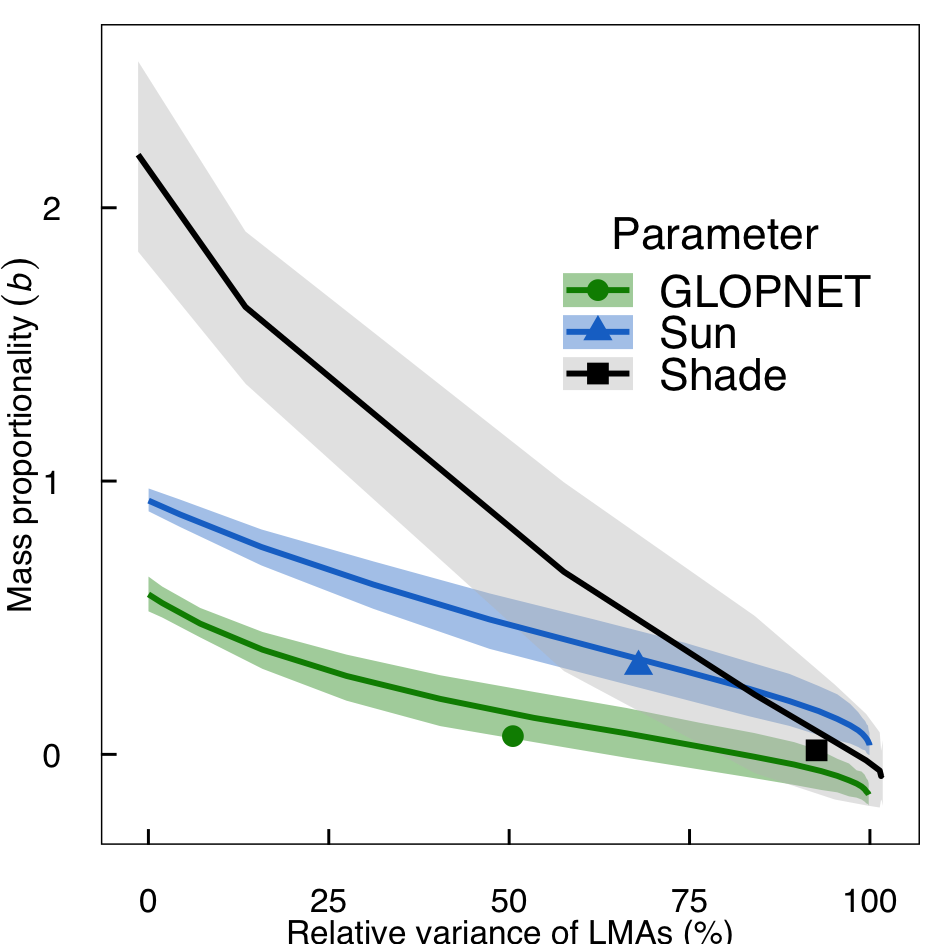
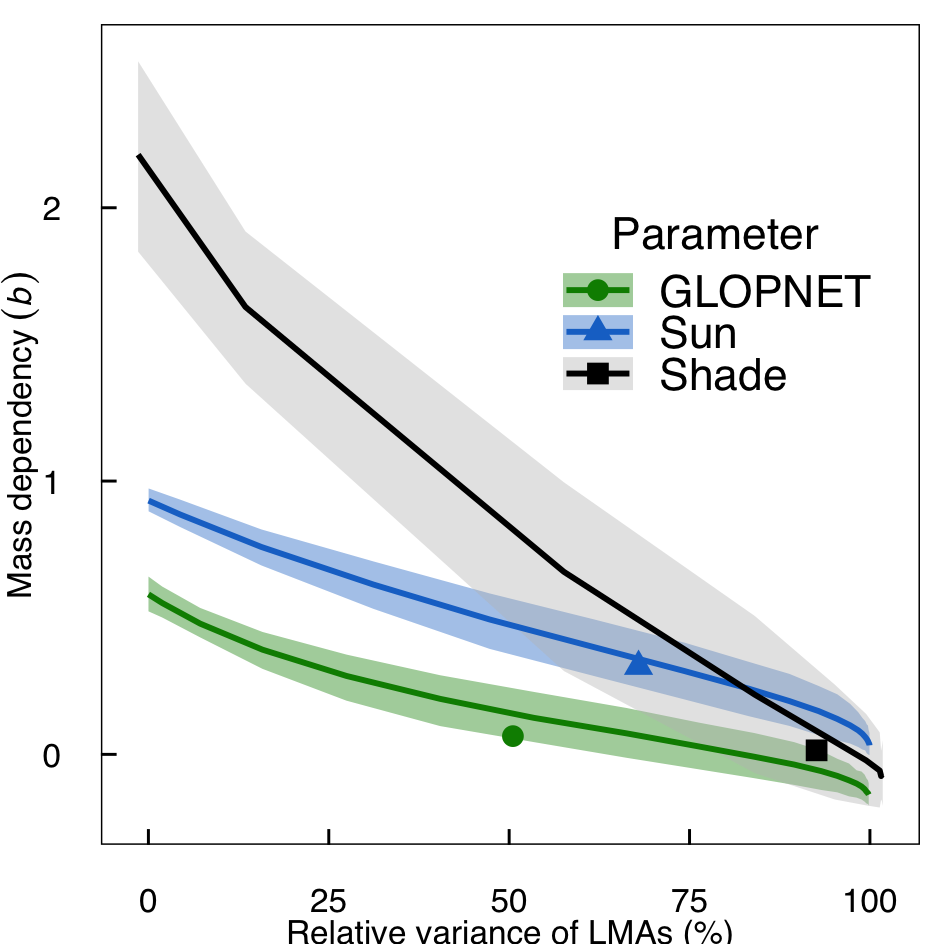
udpated fig legends

Changed region(s): [[0.0, 0.2765, 0.0614, 0.6451]]

diff --git a/ms/LMAms_main.tex b/ms/LMAms_main.tex
@@ -754,7 +754,9 @@ Variation in \emph{A}\textsubscript{max} values are derived from our analysis of
 \includegraphics{../figs/GL_scatter.png}
 \caption{Observed and estimated leaf-trait relationships in the global GLOPNET dataset.
 Estimates are from the NAME Model (Eq. X).
-Leaf life span (LL), net photosynthetic rate per unit leaf area (\emph{A}\textsubscript{area}), and dark respiration rate per unit leaf area (\emph{R}\textsubscript{area}) are plotted against observed LMA, posteriors means of LMAp and LMAs.}\label{fig:GLplt}
+Leaf life span (LL), net photosynthetic rate per unit leaf area (\emph{A}\textsubscript{area}), and dark respiration rate per unit leaf area (\emph{R}\textsubscript{area}) are plotted against observed LMA, posteriors means of LMAp and LMAs.
+Pearson correlation coefficients (\emph{r}) for LMA (left column) and posterior means of Pearson correlation coefficients (\(\bar{r}\)) or partial correlation coefficients (\(\bar{\rho}\)) of LMAp (middle column) and LMAs (right column) are shown.
+Note that LL was modeled by LMAs alone.}\label{fig:GLplt}
 }
 \end{figure}
 
@@ -765,9 +767,10 @@ Leaf life span (LL), net photosynthetic rate per unit leaf area (\emph{A}\textsu
 \centering
 \includegraphics{../figs/PA_scatter.png}
 \caption{Observed and estimated leaf-trait relationships in the Panama dataset.
-Estimates are from the LL with light Model (Eq. 6b).
+Estimates are from the XXX Model (Eq. 6b).
 Details as in Fig.~\ref{fig:GLplt}.
-Results for other LL models are summarized in Table SX.}\label{fig:PAplt}
+Results for other LL models are summarized in Table SX.
+Note that \emph{A}\textsubscript{area} and LL were modeled by LMAp and LMAs alone, respectively.}\label{fig:PAplt}
 }
 \end{figure}
 
@@ -778,9 +781,9 @@ Results for other LL models are summarized in Table SX.}\label{fig:PAplt}
 \centering
 \includegraphics{../figs/LL_plot.png}
 \caption{Observed vs.~predicted leaf lifespan (LL) in the LL with light Model (Eq. 6b).
-Predicted LL values are posterior medians.
+Predicted LL values are posterior means.
 The dashed line indicates the 1:1 relationship.
-The \emph{r}\textsuperscript{2} value is the posterior median of Bayesian \emph{r}\textsuperscript{2} (\protect\hyperlink{ref-Gelman2019}{Gelman et al. 2019}).}\label{fig:LLplt}
+The \emph{R}\textsuperscript{2} value is the posterior mean of Bayesian \emph{R}\textsuperscript{2} (\protect\hyperlink{ref-Gelman2019}{Gelman et al. 2019}).}\label{fig:LLplt}
 }
 \end{figure}
 
@@ -790,9 +793,11 @@ The \emph{r}\textsuperscript{2} value is the posterior median of Bayesian \emph{
 \hypertarget{fig:massplt}{%
 \centering
 \includegraphics{../figs/mass_prop_simple.png}
-\caption{The relationships among mass proportionality (\emph{b\textsubscript{i}} in Eq. 8), variance in LMAp and LMAs, and scaling slopes between LMAp and \emph{A}\textsubscript{area} (\(\alpha_p\)) and LMAs and \emph{A}\textsubscript{area} (\(\alpha_s\)) for the global GLOPNET dataset, sun leaves in Panama, and shade leaves in Panama.
-The photosynthetic rate (\emph{A}\textsubscript{max}) is primarily mass-dependent (\emph{b\textsubscript{i}} \textgreater{} 0.5, white to blue), primarily area-dependent (0.5 \textgreater{} \emph{b\textsubscript{i}} \textgreater{} 0, white to orange) and purely area-proportional (\emph{b\textsubscript{i}} = 0, white) (\protect\hyperlink{ref-Osnas2018}{Osnas et al. 2018}).
-Note that when \emph{b\textsubscript{i}} is negative, \emph{A}\textsubscript{area} decreases with LMA, which is not realistic.}\label{fig:massplt}
+\caption{The relationships between mass dependency (\emph{b} in Eq. 8) and relative variance in LMAs to LMA for the global GLOPNET dataset, sun leaves in Panama, and shade leaves in Panama.
+Solid lines indicate simulated means and shaded regions indicate 95\% CI.
+Each symbol indicates the esimated values from the empirical data.
+The photosynthetic rate (\emph{A}\textsubscript{max}) is primarily mass-dependent (\emph{b} \textgreater{} 0.5), primarily area-dependent (0.5 \textgreater{} \emph{b} \textgreater{} 0) and purely area-dependent (\emph{b} = 0) (\protect\hyperlink{ref-Osnas2018}{Osnas et al. 2018}).
+Note that when \emph{b} \textgreater{} 1, \emph{A}\textsubscript{area} dramatically increase with LMA, which is not realistic.}\label{fig:massplt}
 }
 \end{figure}
 
